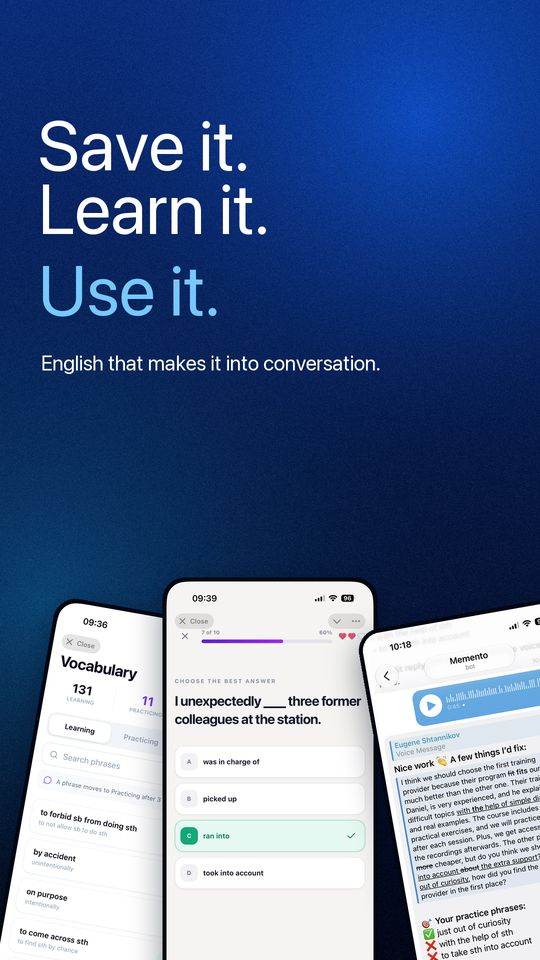
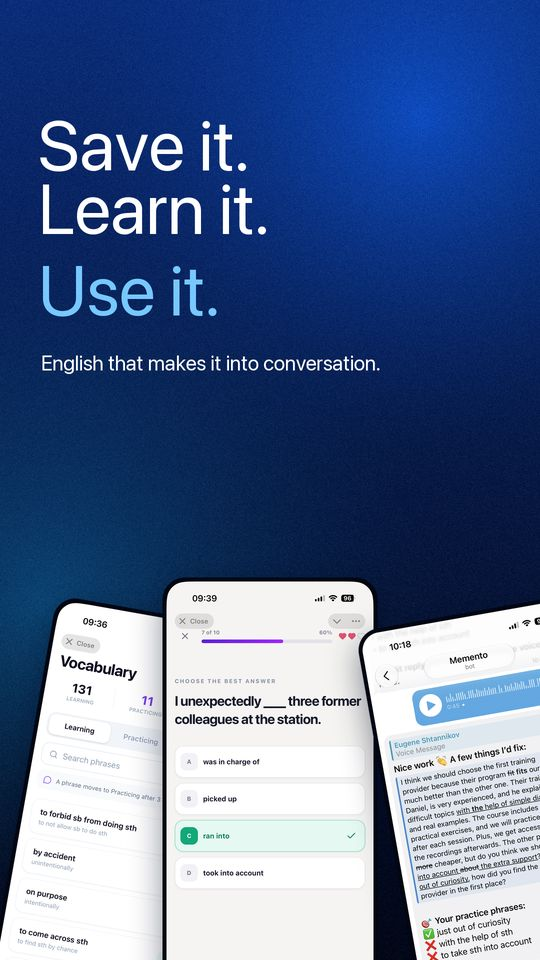
Add Czech marketing image campaign

diff --git a/marketing/images/generate.py b/marketing/images/generate.py
@@ -375,6 +375,34 @@ def phone_frame(
     return phone
 
 
+def rotated_phone_frame(
+    path: Path,
+    width: int,
+    crop_top: int,
+    angle: float = 0,
+    crop_height: int | None = None,
+    radius: int = 64,
+    bezel: int = 12,
+    supersample: int = 4,
+) -> Image.Image:
+    """Render rotated phone edges at high resolution to avoid stair-stepping."""
+    if not angle:
+        return phone_frame(path, width, crop_top, crop_height, radius, bezel)
+    card = phone_frame(
+        path,
+        width=width * supersample,
+        crop_top=crop_top,
+        crop_height=crop_height * supersample if crop_height is not None else None,
+        radius=radius * supersample,
+        bezel=bezel * supersample,
+    )
+    card = card.rotate(angle, expand=True, resample=Image.Resampling.BICUBIC)
+    return card.resize(
+        (round(card.width / supersample), round(card.height / supersample)),
+        Image.Resampling.LANCZOS,
+    )
+
+
 def paste_with_shadow(
     canvas: Image.Image,
     card: Image.Image,
@@ -446,16 +474,14 @@ def draw_finale_slide(
     draw_text(canvas, (82, copy["support_top"]), copy["support"], 42, (255, 255, 255, 190))
 
     for item in slide["fan"]:
-        card = phone_frame(
+        card = rotated_phone_frame(
             asset_root / item["screenshot"],
             width=item["width"],
             crop_top=item.get("crop_top", 0),
+            angle=item.get("angle", 0),
             radius=item.get("radius", 44),
             bezel=item.get("bezel", 8),
         )
-        angle = item.get("angle", 0)
-        if angle:
-            card = card.rotate(angle, expand=True, resample=Image.Resampling.BICUBIC)
         position = (item["x"], item["top"])
         paste_with_shadow(canvas, card, position, blur=30, offset_y=22)
 
@@ -471,17 +497,15 @@ def render_chat_image(
     canvas = make_chat_background(709, palette, width, height)
 
     for item in chat["fan"]:
-        card = phone_frame(
+        card = rotated_phone_frame(
             asset_root / item["screenshot"],
             width=item["width"],
             crop_top=item.get("crop_top", 0),
+            angle=item.get("angle", 0),
             crop_height=item.get("crop_height"),
             radius=item.get("radius", 38),
             bezel=item.get("bezel", 8),
         )
-        angle = item.get("angle", 0)
-        if angle:
-            card = card.rotate(angle, expand=True, resample=Image.Resampling.BICUBIC)
         paste_with_shadow(
             canvas,
             card,
@@ -716,17 +740,16 @@ def render_feature_image(
 
     rendered_features: list[tuple[dict[str, Any], Image.Image, float]] = []
     for item in feature["features"]:
-        card = phone_frame(
+        angle = item.get("angle", 0)
+        card = rotated_phone_frame(
             asset_root / item["screenshot"],
             width=item["width"],
             crop_top=item.get("crop_top", 0),
+            angle=angle,
             crop_height=item.get("crop_height"),
             radius=item.get("radius", 34),
             bezel=item.get("bezel", 7),
         )
-        angle = item.get("angle", 0)
-        if angle:
-            card = card.rotate(angle, expand=True, resample=Image.Resampling.BICUBIC)
         rendered_features.append((item, card, angle))
 
     for item, card, _angle in rendered_features:

diff --git a/marketing/images/test_generate.py b/marketing/images/test_generate.py
@@ -55,5 +55,58 @@ class GithubFeatureImageTest(unittest.TestCase):
                 self.assertEqual(preview.size, (640, 320))
 
 
+class CzechCampaignTest(unittest.TestCase):
+    def test_czech_campaign_uses_localized_brand_copy_and_screenshots(self) -> None:
+        config = generate.load_config(ROOT / "campaigns" / "cz.json")
+
+        self.assertEqual(config["id"], "cz")
+        self.assertEqual(config["locale"], "cz")
+        self.assertEqual(config["brand"]["name"], "Pomněnka")
+        self.assertIn("Czech", config["slides"][0]["copy"]["headline"])
+        self.assertIn("Czech", config["slides"][-1]["copy"]["support"])
+
+        screenshots = {
+            slide["screenshot"]
+            for slide in config["slides"]
+            if "screenshot" in slide
+        }
+        screenshots.update(
+            item["screenshot"]
+            for slide in config["slides"]
+            for item in slide.get("fan", [])
+        )
+        self.assertEqual(screenshots, {"cz-vocabulary.jpg", "cz-quiz.jpg"})
+        for screenshot in screenshots:
+            self.assertTrue((ROOT / "assets" / screenshot).is_file())
+
+    def test_czech_campaign_renders_with_supplied_screenshots(self) -> None:
+        config = generate.load_config(ROOT / "campaigns" / "cz.json")
+        with tempfile.TemporaryDirectory() as temporary_directory:
+            output = Path(temporary_directory)
+            paths = generate.render_campaign(config, output, "telegram")
+
+            self.assertEqual(len(paths), 6)
+            self.assertTrue((output / "contact-sheet.jpg").is_file())
+            self.assertTrue((output / "chat-cover.jpg").is_file())
+            self.assertEqual((output / "chat-copy.txt").read_text(encoding="utf-8").splitlines()[0], "Save it. Learn it. Use it.")
+
+
+class PhoneFrameTest(unittest.TestCase):
+    def test_rotated_phone_frame_supersamples_edges(self) -> None:
+        screenshot = ROOT / "assets" / "cz-quiz.jpg"
+        rotated = generate.rotated_phone_frame(
+            screenshot,
+            width=410,
+            crop_top=0,
+            angle=3,
+            radius=38,
+            bezel=10,
+        )
+
+        self.assertGreater(rotated.width, 410)
+        self.assertEqual(rotated.mode, "RGBA")
+        self.assertEqual(rotated.getchannel("A").getextrema(), (0, 255))
+
+
 if __name__ == "__main__":
     unittest.main()

diff --git a/docs/marketing.md b/docs/marketing.md
@@ -83,10 +83,17 @@ python3 -m unittest marketing/images/test_generate.py
 The integration test confirms that the GitHub platform emits only the social
 preview and that both generated files have the expected dimensions.
 
-## Add Czech later
+## Generate the Czech campaign
 
-Duplicate `marketing/images/campaigns/en.json` as
-`marketing/images/campaigns/cs.json`, set `id` and `locale` to `cs`,
-translate the copy, and point at Czech screenshots. The same generator will
-write each platform campaign beneath
-`marketing/images/output/cs/<platform>/` without changing the layouts.
+The Czech campaign keeps the English campaign layouts and marketing phrasing,
+uses the Pomněnka app name, changes references from English to Czech, and uses
+the Czech vocabulary and quiz screenshots:
+
+```sh
+python3 marketing/images/generate.py marketing/images/campaigns/cz.json --platform telegram
+python3 marketing/images/generate.py marketing/images/campaigns/cz.json --platform instagram
+python3 marketing/images/generate.py marketing/images/campaigns/cz.json --platform linkedin
+python3 marketing/images/generate.py marketing/images/campaigns/cz.json --platform github
+```
+
+Outputs are written beneath `marketing/images/output/cz/<platform>/`.
